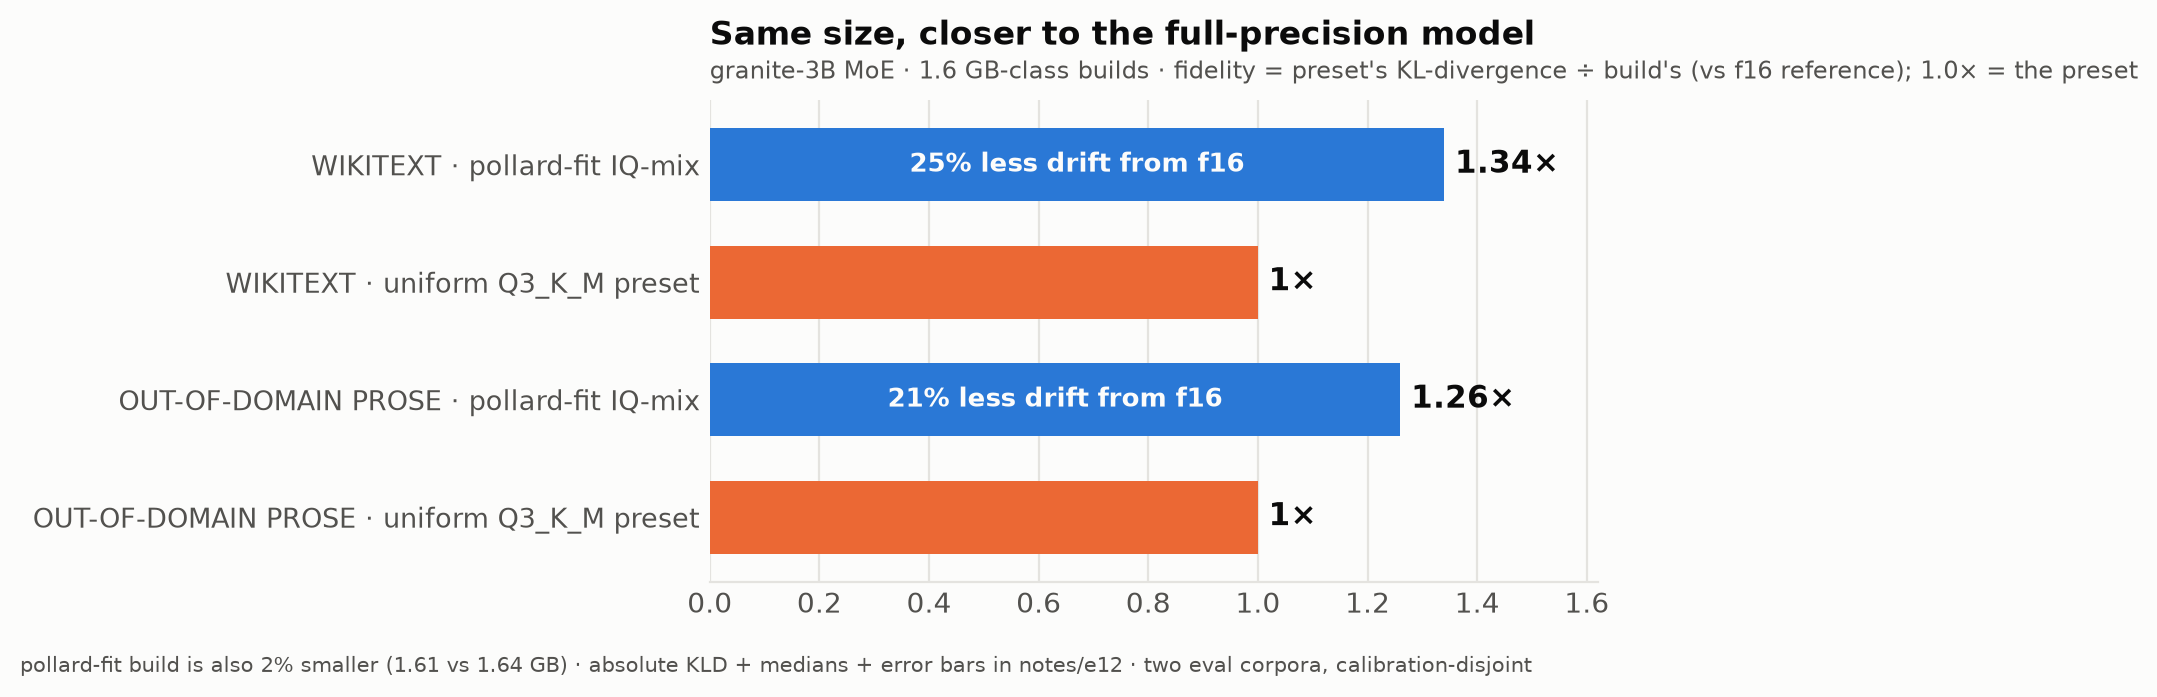
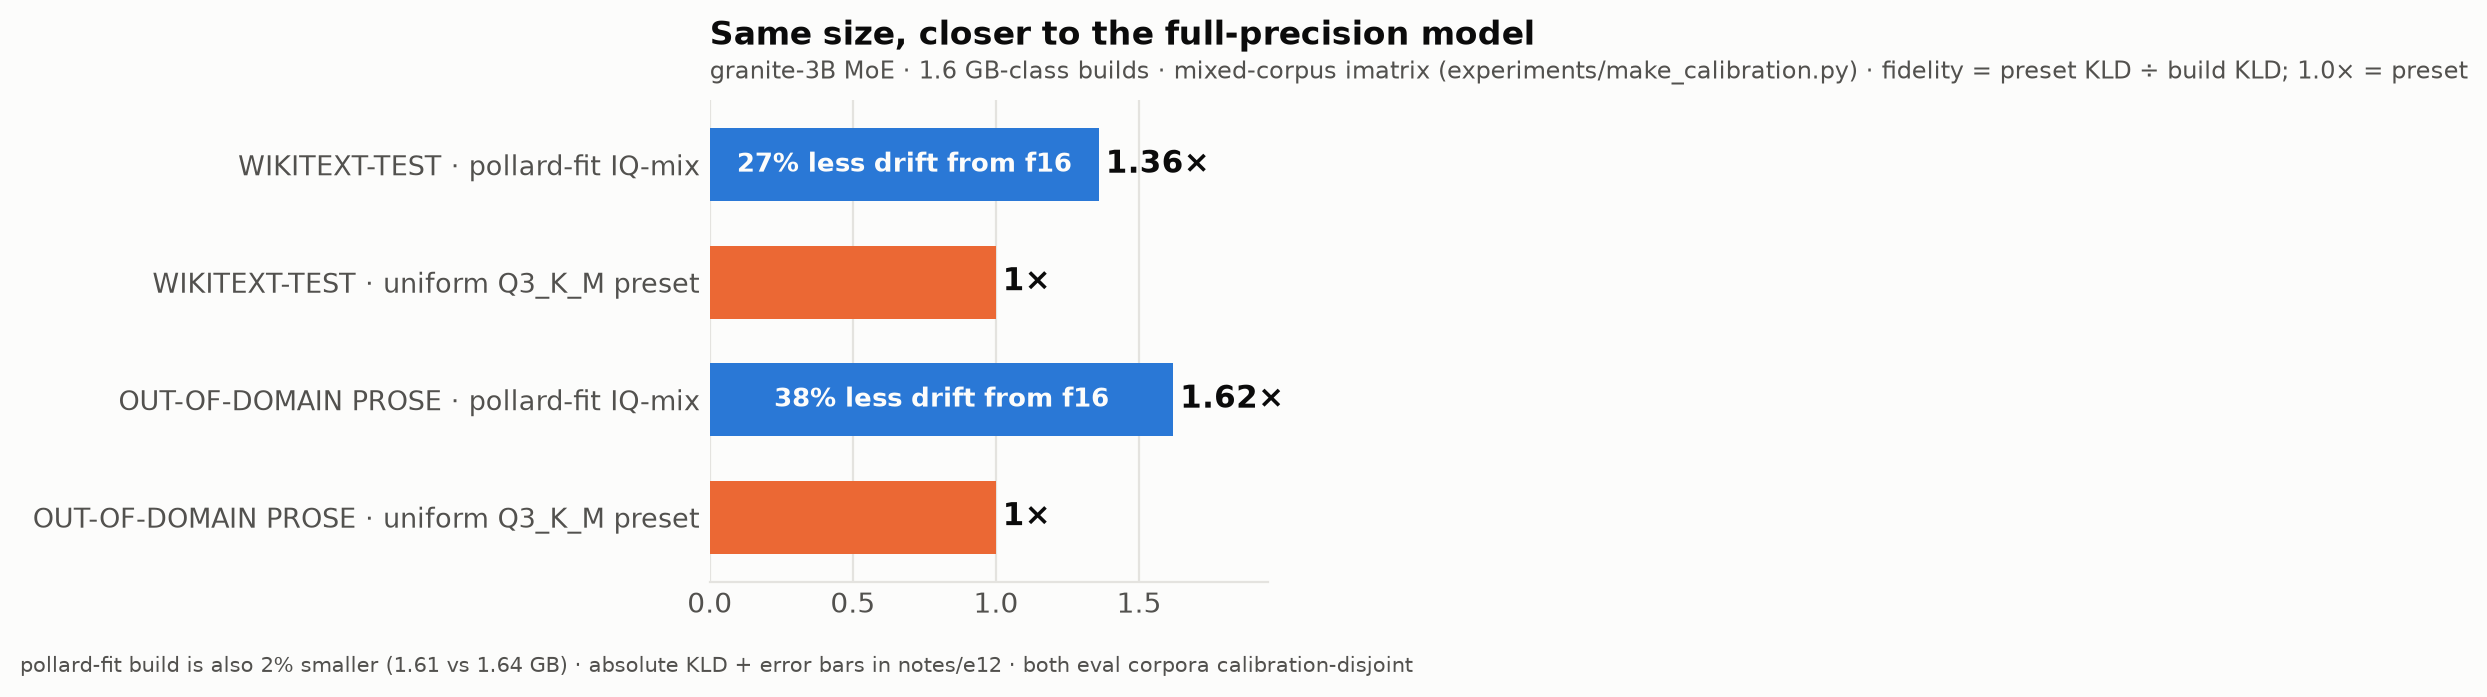
mixed-calibration results: fit-leg gap widens to -27%/-38% on fresh calibration-disjoint corpora; chart + e12 updated

diff --git a/notes/e12-both-legs-measured.md b/notes/e12-both-legs-measured.md
@@ -38,10 +38,14 @@ the f16 reference on held-out WikiText (25K tokens):
 
 Every axis, ~14 standard errors apart, in a smaller file.
 
-**Replicated on a second, fully out-of-domain corpus** (literary prose,
-Project Gutenberg, 120 KB slice): uniform 0.1567 mean / 0.0801 median vs
-pollard IQ-mix **0.1240 / 0.0585** (−21% / −27%; 99.9% tails statistically
-tied). The win is not a WikiText artifact.
+**Replicated on a second, fully out-of-domain corpus** (literary prose):
+−21% mean with the first-pass imatrix. **Upgrading the calibration corpus**
+(60 KB single-domain → 1.3 MB mixed encyclopedic/narrative/dialogue/code,
+`experiments/make_calibration.py`) widened the gap, most strongly out of
+domain: WikiText-test **0.1100 vs 0.1500 (−27%)**, fresh literary eval
+**0.1038 vs 0.1678 (−38%)**, both corpora calibration-disjoint, sensitivity
+ranking unchanged (cold layers 4,7,2 under both matrices). Measured
+allocation *generalizes*; the uniform preset degrades off-domain.
 
 ## How the fitting win was found (the method, working)
 
